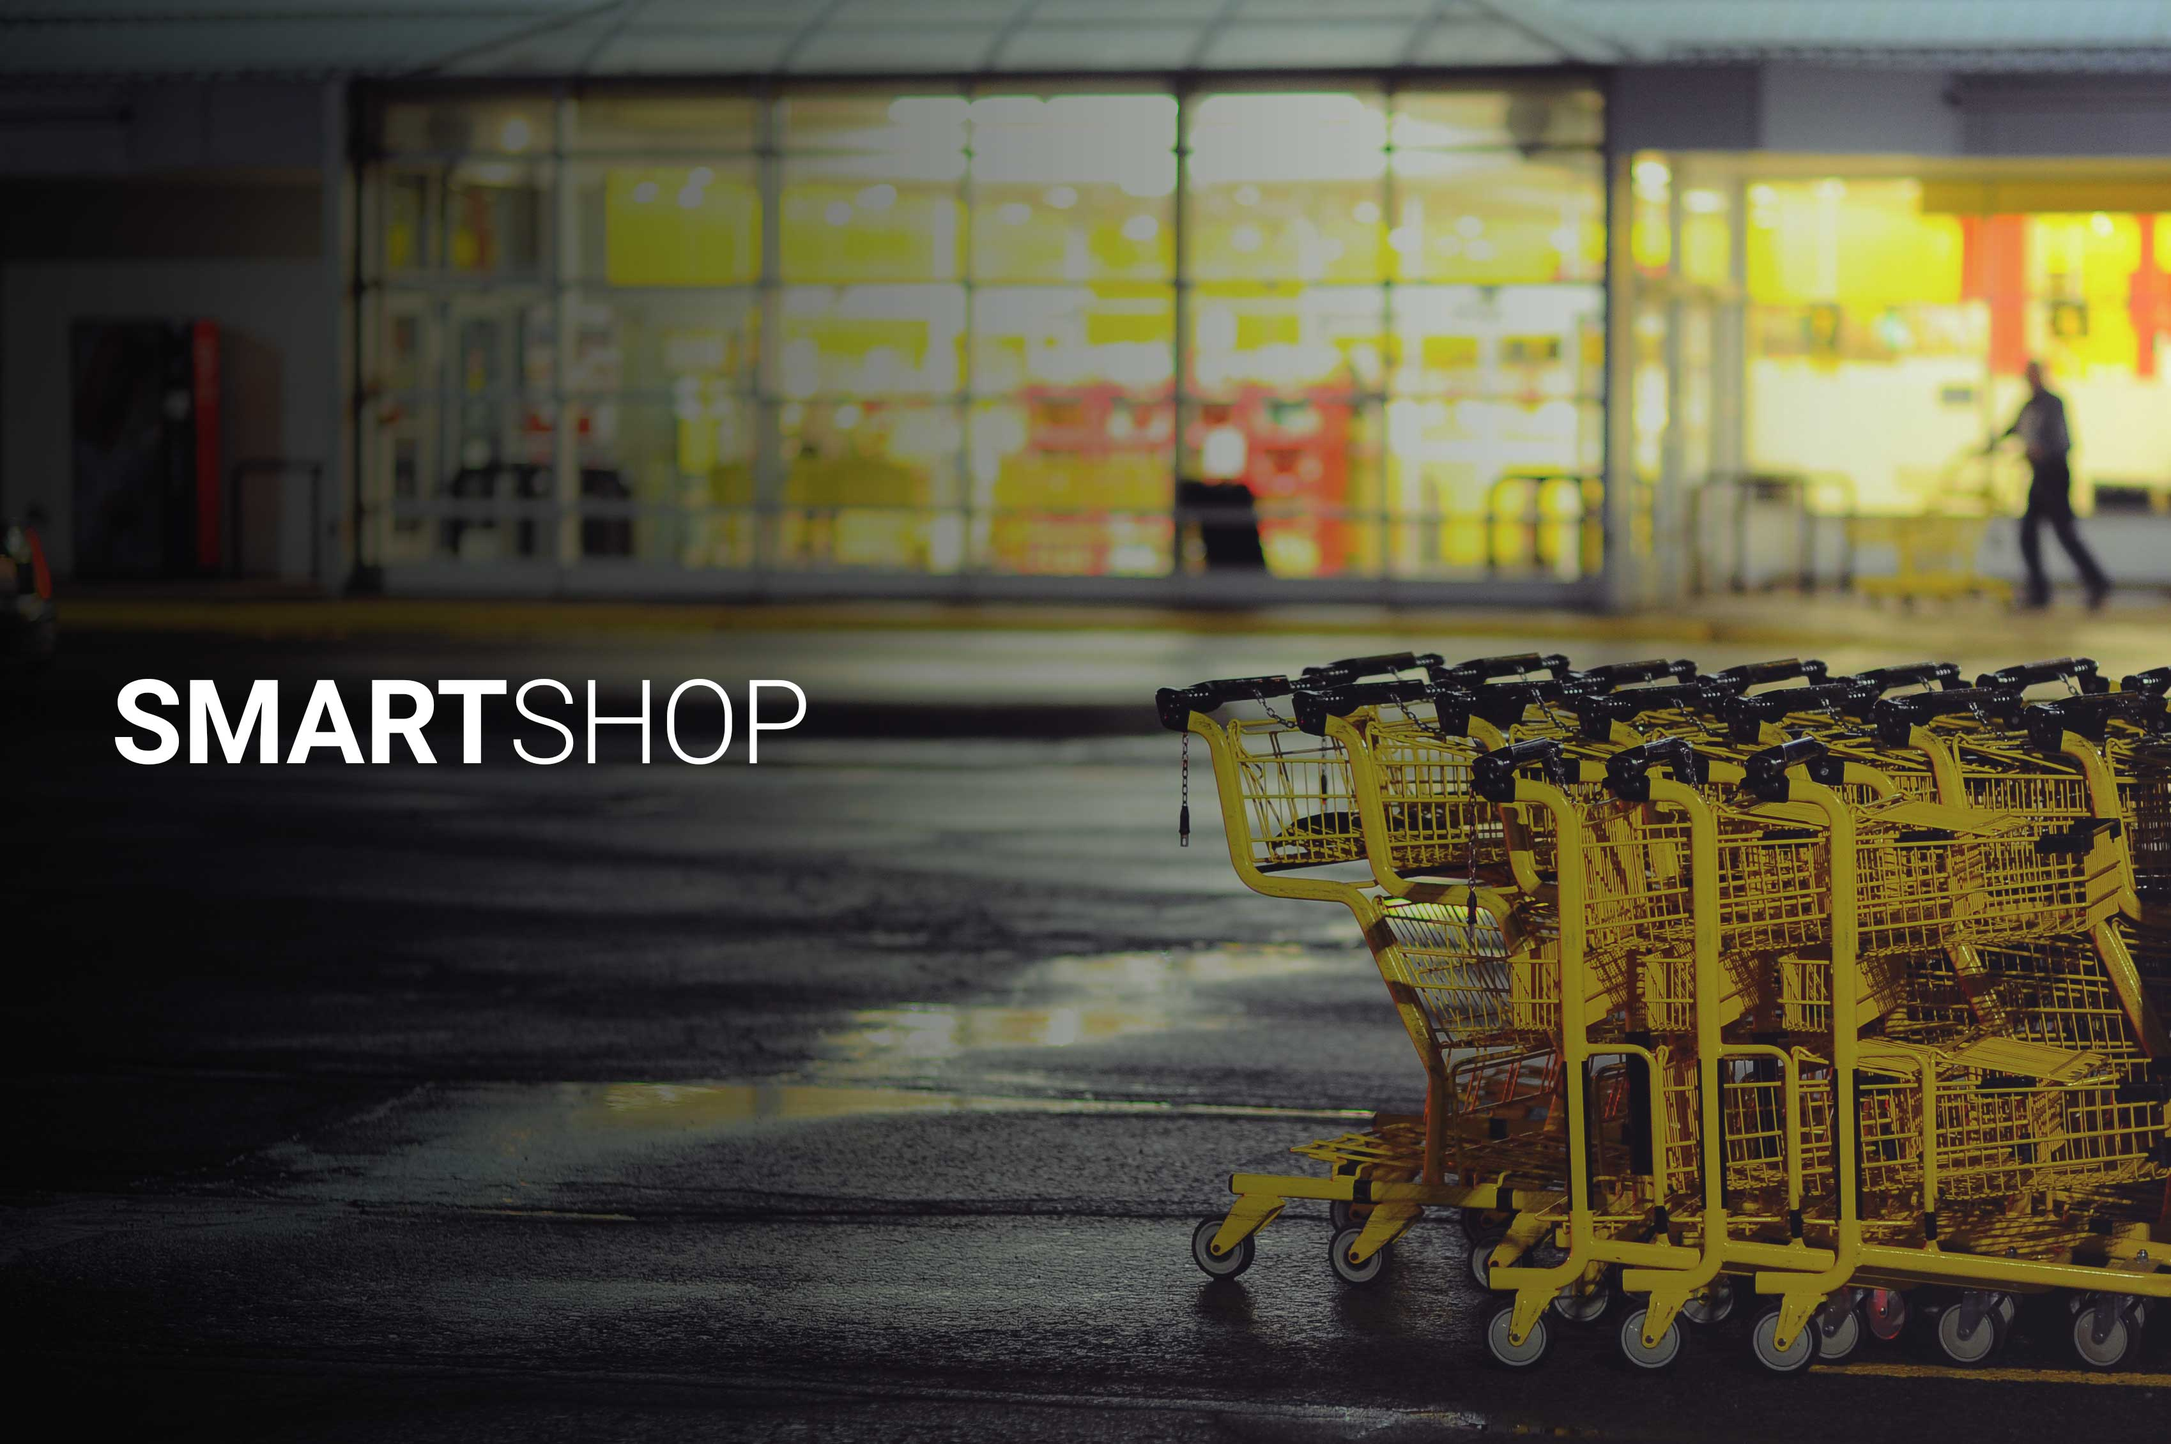
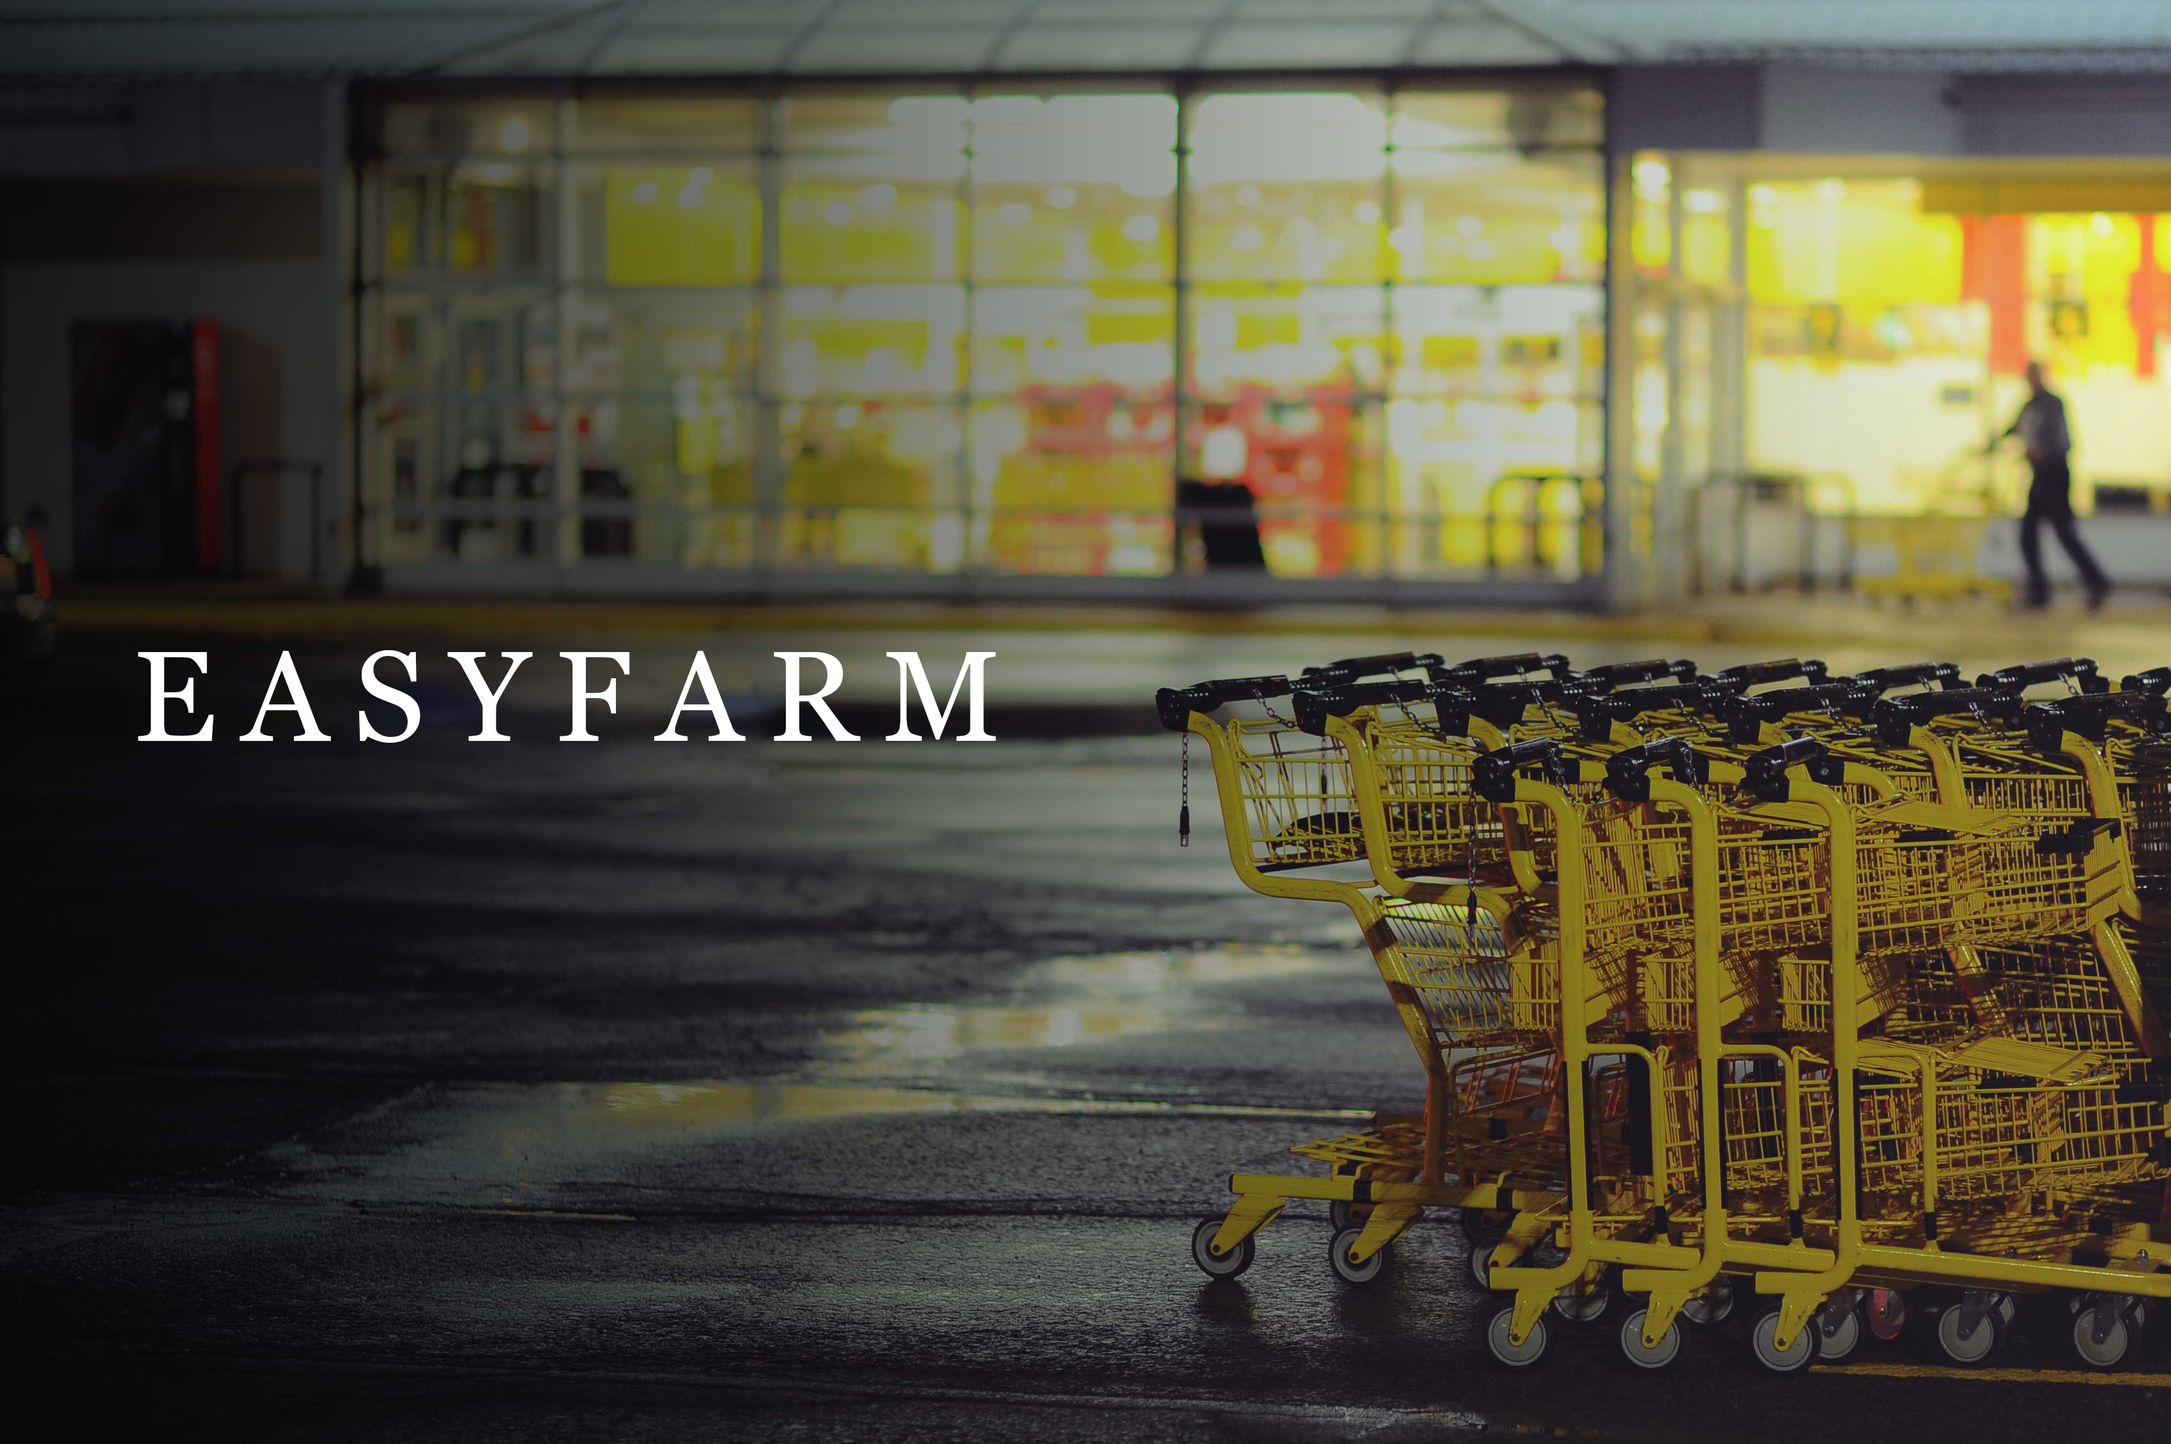
presentation1

Changed region(s): [[0.0312, 0.4334, 0.4679, 0.5573]]

diff --git a/src/css/style.css b/src/css/style.css
@@ -82,7 +82,7 @@
 }
 
 .nav-wrapper-2 .brand {
-  background-image: url("../img/logo.svg");
+  background-image: url("../img/E4.svg");
   background-repeat: no-repeat;
   background-position: center;
   background-size: cover;

diff --git a/includes/pictures.php b/includes/pictures.php
@@ -1,0 +1,181 @@
+<?php
+
+
+  $pathpic = "productsimg/";
+  $filepic = $pathpic . basename($_FILES["picture1"]["name"]);
+  $uploadOki = 1;
+  $typepic = pathinfo($filepic,PATHINFO_EXTENSION);
+
+  // Check if image file is a actual image or fake image
+  $check2 = getimagesize($_FILES["picture1"]["tmp_name"]);
+  if($check2 !== false) {
+  $uploadOki = 1;
+  } else {
+  echo "<a class='btn-large red waves-effects light-effects'>File is not an image</a><br><br>";
+  $uploadOki = 0;
+  }
+
+  // Check file size
+  if ($_FILES["picture1"]["size"] > 50000000) {
+  echo "<a class='btn-large red waves-effects light-effects'>Sorry, your picture is too large</a><br><br>";
+  $uploadOki = 0;
+  }
+
+  // Allow certain file formats
+  if($typepic != "png" && $typepic != "jpeg" && $typepic != "jpg" ) {
+  echo "<a class='btn-large red waves-effects light-effects'>Sorry, only JPEG, JPG, PNG pictures are allowed</a><br><br>";
+  $uploadOki = 0;
+  }
+
+ else {
+    $uploadOki = 1;
+  }
+
+  // Check if $uploadOk is set to 0 by an error
+  if ($uploadOki == 0) {
+  echo "<a class='btn-large red waves-effects light-effects'>Sorry, your file was not uploaded</a><br><br>";
+  // if everything is ok, try to upload file
+  } else {
+  if (move_uploaded_file($_FILES["picture1"]["tmp_name"], $filepic)) {
+
+  } else {
+  echo "<a class='btn-large red waves-effects light-effects'>Sorry, there was an error uploading your picture</a>";
+  }
+  }
+
+  $img=$_FILES["picture1"]["name"];
+
+$img_pathpic1 = "../productsimg/".$_FILES["picture1"]["name"];
+
+// 3 pictures
+CreateThumbs($img_pathpic1, $img_pathpic1, 602, 600, 1);
+
+//pictues
+$picture1 = $_FILES["picture1"]["name"];
+
+
+//adding pictures
+$querypic = "INSERT INTO pictures(picture, id_produit)
+VALUES ('$picture1', '$idproduct')";
+mysqli_query($connection, $querypic);
+
+
+$pathpic2 = "../productsimg/";
+$filepic2 = $pathpic2 . basename($_FILES["picture2"]["name"]);
+$uploadOki2 = 1;
+$typepic2 = pathinfo($filepic2,PATHINFO_EXTENSION);
+
+// Check if image file is a actual image or fake image
+$check22 = getimagesize($_FILES["picture2"]["tmp_name"]);
+if($check22 !== false) {
+$uploadOki2 = 1;
+} else {
+echo "<a class='btn-large red waves-effects light-effects'>File is not an image</a><br><br>";
+$uploadOki2 = 0;
+}
+
+// Check file size
+if ($_FILES["picture2"]["size"] > 50000000) {
+echo "<a class='btn-large red waves-effects light-effects'>Sorry, your picture is too large</a><br><br>";
+$uploadOki2 = 0;
+}
+
+// Allow certain file formats
+if($typepic2 != "png" && $typepic2 != "jpeg" && $typepic2 != "jpg" ) {
+echo "<a class='btn-large red waves-effects light-effects'>Sorry, only JPEG, JPG, PNG pictures are allowed</a><br><br>";
+$uploadOki2 = 0;
+}
+
+else {
+  $uploadOki2 = 1;
+}
+
+// Check if $uploadOk is set to 0 by an error
+if ($uploadOki2 == 0) {
+echo "<a class='btn-large red waves-effects light-effects'>Sorry, your file was not uploaded</a><br><br>";
+// if everything is ok, try to upload file
+} else {
+if (move_uploaded_file($_FILES["picture2"]["tmp_name"], $filepic2)) {
+
+} else {
+echo "<a class='btn-large red waves-effects light-effects'>Sorry, there was an error uploading your picture</a>";
+}
+}
+
+$img2=$_FILES["picture1"]["name"];
+
+$img_pathpic2 = "../productsimg/".$_FILES["picture2"]["name"];
+
+// 3 pictures
+CreateThumbs($img_pathpic2, $img_pathpic2, 602, 600, 1);
+
+//pictues
+$picture2 = $_FILES["picture2"]["name"];
+
+
+//adding pictures
+$querypic = "INSERT INTO pictures(picture, id_produit)
+VALUES ('$picture2', '$idproduct')";
+mysqli_query($connection, $querypic);
+
+
+$pathpic3 = "../productsimg/";
+$filepic3 = $pathpic3 . basename($_FILES["picture3"]["name"]);
+$uploadOki3 = 1;
+$typepic3 = pathinfo($filepic3,PATHINFO_EXTENSION);
+
+// Check if image file is a actual image or fake image
+$check23 = getimagesize($_FILES["picture3"]["tmp_name"]);
+if($check23 !== false) {
+$uploadOki3 = 1;
+} else {
+echo "<a class='btn-large red waves-effects light-effects'>File is not an image</a><br><br>";
+$uploadOki3 = 0;
+}
+
+// Check file size
+if ($_FILES["picture3"]["size"] > 50000000) {
+echo "<a class='btn-large red waves-effects light-effects'>Sorry, your picture is too large</a><br><br>";
+$uploadOki3 = 0;
+}
+
+// Allow certain file formats
+if($typepic3 != "png" && $typepic3 != "jpeg" && $typepic3 != "jpg" ) {
+echo "<a class='btn-large red waves-effects light-effects'>Sorry, only JPEG, JPG, PNG pictures are allowed</a><br><br>";
+$uploadOki3 = 0;
+}
+
+else {
+  $uploadOki3 = 1;
+}
+
+// Check if $uploadOk is set to 0 by an error
+if ($uploadOki3 == 0) {
+echo "<a class='btn-large red waves-effects light-effects'>Sorry, your file was not uploaded</a><br><br>";
+// if everything is ok, try to upload file
+} else {
+if (move_uploaded_file($_FILES["picture3"]["tmp_name"], $filepic3)) {
+
+} else {
+echo "<a class='btn-large red waves-effects light-effects'>Sorry, there was an error uploading your picture</a>";
+}
+}
+
+$img3=$_FILES["picture3"]["name"];
+
+$img_pathpic3 = "../productsimg/".$_FILES["picture3"]["name"];
+
+// 3 pictures
+CreateThumbs($img_pathpic3, $img_pathpic3, 602, 600, 1);
+
+//pictues
+$picture3 = $_FILES["picture3"]["name"];
+
+
+//adding pictures
+$querypic = "INSERT INTO pictures(picture, id_produit)
+VALUES ('$picture3', '$idproduct')";
+mysqli_query($connection, $querypic);
+
+
+ ?>

diff --git a/productstock.php b/productstock.php
@@ -3,7 +3,7 @@
 session_start();
 
 if ($_SESSION['role'] !== 'admin') {
-  header('Location: ../index');
+  header('Location: index');
 }
 
 $category = $_GET['id'];
@@ -16,9 +16,9 @@ $category = $_GET['id'];
       <nav>
         <div class="nav-wrapper">
           <div class="col s12">
-            <a href="index" class="breadcrumb">Dashboard</a>
-            <a href="products" class="breadcrumb">Stock</a>
-            <a href="productstock" class="breadcrumb">Products</a>
+            <a href="indexadm.php" class="breadcrumb">Dashboard</a>
+            <a href="products.php" class="breadcrumb">Stock</a>
+            
           </div>
         </div>
       </nav>
@@ -27,7 +27,7 @@ $category = $_GET['id'];
    <div class="container stocki">
        <div class="row">
            <?php
-           include '../db.php';
+           include 'db.php';
             // get stock
             $query = "SELECT * FROM product WHERE id_category = '$category'";
             $result = $connection->query($query);
@@ -42,11 +42,12 @@ $category = $_GET['id'];
            <div class="col s12 m4">
              <div class="card hoverable animated slideInUp wow">
                <div class="card-image">
-                     <img src="../products/<?= $thumbnail; ?>">
+                     
+                     <img src="" style="background-image: url('products/<?= $thumbnail; ?>'); background-repeat: no-repeat; background-size: contain;" alt="" height="250px"></a>
                    <span class="card-title grey-text"><?= $name; ?></span>
                  </div>
                  <div class="card-content">
-                      <h5 class="white-text">$ <?= $price; ?></h5>
+                      <h5 >$ <?= $price; ?></h5>
                       <a class="blue-text" href="deleteproduct.php?id=<?= $id_product;?>">Delete</a>
                  </div>
              </div>

diff --git a/products.php b/products.php
@@ -14,8 +14,8 @@ if ($_SESSION['role'] !== 'admin') {
       <nav>
         <div class="nav-wrapper">
           <div class="col s12">
-            <a href="index" class="breadcrumb">Dashboard</a>
-            <a href="products" class="breadcrumb">Stock</a>
+            <a href="indexadm.php" class="breadcrumb">Dashboard</a>
+            <a href="products.php" class="breadcrumb">Stock</a>
           </div>
         </div>
       </nav>
@@ -53,11 +53,14 @@ if ($_SESSION['role'] !== 'admin') {
              <div class="card hoverable animated slideInUp wow">
                <div class="card-image">
                  <a href="productstock.php?id=<?= $id_cat; ?>&category=<?= $name; ?>&icon=<?= $icon; ?>">
-                   <img src="src/img/<?= $icon; ?>.png" alt=""></a>
-                 <span class="card-title blue-text"><?= $name; ?>s</span>
+                   <img src="" style="background-image: url('src/img/<?= $icon; ?>.jpg'); background-repeat: no-repeat; background-size: contain;" alt="" height="250px">
+                 </a>
                </div>
+               <div class="card-title">
+                 <span class="card-title blue-text"><?= $name; ?>s</span>
+                </div >
                <div class="card-content">
-                 <h5 class="white-text"><?= $total; ?></h5>
+                 <h5 ><?= $total; ?></h5>
                </div>
              </div>
            </div>

diff --git a/addproduct.php b/addproduct.php
@@ -18,7 +18,7 @@ require 'includes/navconnected.php'; }
     <nav>
       <div class="nav-wrapper">
         <div class="col s12">
-          <a href="index" class="breadcrumb">Dashboard</a>
+          <a href="indexadm.php" class="breadcrumb">Dashboard</a>
           <a href="infoproduct.php" class="breadcrumb">Managa Products</a>
           <a href="addproduct.php" class="breadcrumb">Add product</a>
         </div>
@@ -49,8 +49,14 @@ require 'includes/navconnected.php'; }
           <div class="card hoverable animated slideInUp wow">
             <div class="card-image">
               <a href="addp.php?id=<?= $id_category; ?>&category=<?= $name_category; ?>&icon=<?= $icon_category; ?>">
-                <img src="src/img/<?= $icon_category; ?>.png" alt=""></a>
-              <span class="card-title blue-text"><?= $name_category; ?></span>
+              <img src="" style="background-image: url('src/img/<?= $icon_category; ?>.jpg'); background-repeat: no-repeat; background-size: contain;" alt="" height="250px">
+              </a>
+            </div>
+            <div class="card-title">
+              <span class="card-title blue-text">
+              <?= $name_category; ?>
+              </span>
+              
             </div>
           </div>
         </div>

diff --git a/stats.php b/stats.php
@@ -14,9 +14,9 @@ if ($_SESSION['role'] !== 'admin') {
       <nav>
         <div class="nav-wrapper">
           <div class="col s12">
-            <a href="index" class="breadcrumb">Dashboard</a>
-            <a href="infoproduct" class="breadcrumb">Products</a>
-            <a href="stats" class="breadcrumb">stats</a>
+            <a href="indexadm.php" class="breadcrumb">Dashboard</a>
+            <a href="infoproduct.php" class="breadcrumb">Products</a>
+            <a href="stats.php" class="breadcrumb">stats</a>
           </div>
         </div>
       </nav>
@@ -61,7 +61,7 @@ if ($_SESSION['role'] !== 'admin') {
                   <div class="col s2">
                     <p class="black-text"><?= $name_best; ?></p>
                     <div class="card red<?= $idp; ?>" style="padding-top:<?=number_format((float)$percent, 2, '.', ''); ?>%">
-                       <h5 class="white-text"><?=number_format((float)$percent, 2, '.', '');  ?>%</h5>
+                       <h5 class=><?=number_format((float)$percent, 2, '.', '');  ?>%</h5>
                     </div>
                   </div>
 

diff --git a/addp.php b/addp.php
@@ -19,8 +19,8 @@ require 'includes/navconnected.php'; } ?>
     <nav>
       <div class="nav-wrapper">
         <div class="col s12">
-          <a href="index" class="breadcrumb">Dashboard</a>
-          <a href="addproduct" class="breadcrumb"><?= $name_category; ?></a>
+          <a href="indexadm.php" class="breadcrumb">Dashboard</a>
+          <a href="addproduct.php" class="breadcrumb"><?= $name_category; ?></a>
         </div>
       </div>
     </nav>
@@ -32,10 +32,10 @@ require 'includes/navconnected.php'; } ?>
     <div class="card">
       <?php
 
-       include '../db.php';
+       include 'db.php';
        ?>
       <div class="center-align">
-        <img class="responsive-img" src="src/img/<?= $caticon; ?>.png">
+        <img class="responsive-img" src="src/img/<?= $caticon; ?>.jpg">
       </div>
 
       <div class="row">

diff --git a/records.php b/records.php
@@ -64,7 +64,7 @@ if ($_SESSION['role'] !== 'admin') {
                   <div class="col s2">
                     <p class="black-text"><?= $name_best; ?></p>
                     <div class="card red<?= $idp; ?>" style="padding-top:<?=number_format((float)$percent, 2, '.', ''); ?>%">
-                       <h5 class="white-text"><?=number_format((float)$percent, 2, '.', '');  ?>%</h5><p class="grey-text"><?=$totalsold ?></p>
+                       <h5 ><?=number_format((float)$percent, 2, '.', '');  ?>%</h5><p class="grey-text"><?=$totalsold ?></p>
                     </div>
                   </div>
 

diff --git a/editproduct.php b/editproduct.php
@@ -14,9 +14,9 @@ if ($_SESSION['role'] !== 'admin') {
       <nav>
         <div class="nav-wrapper">
           <div class="col s12">
-            <a href="index" class="breadcrumb">Dashboard</a>
-            <a href="infoproduct" class="breadcrumb">Products</a>
-            <a href="editproduct" class="breadcrumb">Commands</a>
+            <a href="indexadm.php" class="breadcrumb">Dashboard</a>
+            <a href="infoproduct.php" class="breadcrumb">Products</a>
+            <a href="editproduct.php" class="breadcrumb">Commands</a>
           </div>
         </div>
       </nav>

diff --git a/success.php b/success.php
@@ -55,7 +55,7 @@ function CreateThumbs($src, $dst, $width, $height, $crop=0){
 
 }
 
-  $path = "../products/";
+  $path = "products/";
   $file = $path . basename($_FILES["thumbnail"]["name"]);
   $uploadOk = 1;
   $type = pathinfo($file,PATHINFO_EXTENSION);
@@ -99,7 +99,7 @@ function CreateThumbs($src, $dst, $width, $height, $crop=0){
 
 
 
-$img_path = "../products/".$_FILES["thumbnail"]["name"];
+$img_path = "products/".$_FILES["thumbnail"]["name"];
 //resize_function//////////////////////////////////////////////////
 CreateThumbs($img_path, $img_path, 602, 600, 1);
 

diff --git a/orders.php b/orders.php
@@ -15,8 +15,8 @@ if ($_SESSION['role'] !== 'admin') {
         <div class="nav-wrapper">
           <div class="col s12">
             <a href="indexadm.php" class="breadcrumb">Dashboard</a>
-            <a href="infoproduct" class="breadcrumb">Products</a>
-            <a href="editproduct" class="breadcrumb">Orders</a>
+            <a href="infoproduct.php" class="breadcrumb">Products</a>
+            <a href="editproduct.php" class="breadcrumb">Orders</a>
           </div>
         </div>
       </nav>

diff --git a/user.php b/user.php
@@ -16,8 +16,8 @@ if ($_SESSION['role'] !== 'admin') {
         <div class="nav-wrapper">
           <div class="col s12">
             <a href="indexadm.php" class="breadcrumb">Dashboard</a>
-            <a href="infoproduct" class="breadcrumb">Products</a>
-            <a href="editproduct" class="breadcrumb">Orders</a>
+            <a href="infoproduct.php" class="breadcrumb">Products</a>
+            <a href="editproduct.php" class="breadcrumb">Orders</a>
           </div>
         </div>
       </nav>
